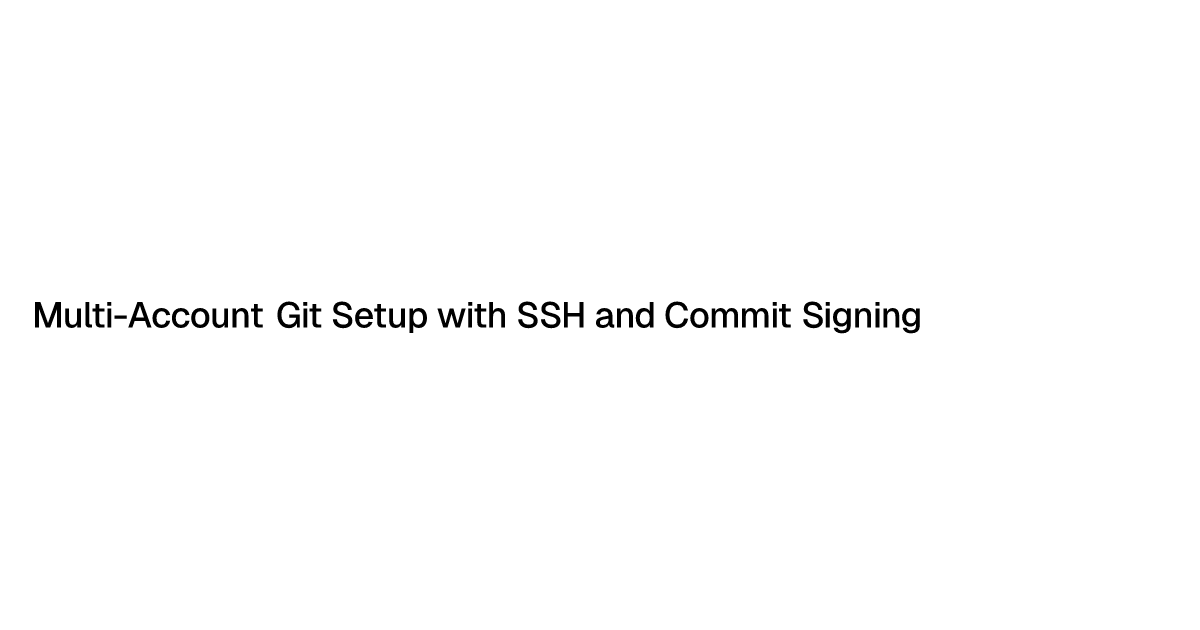
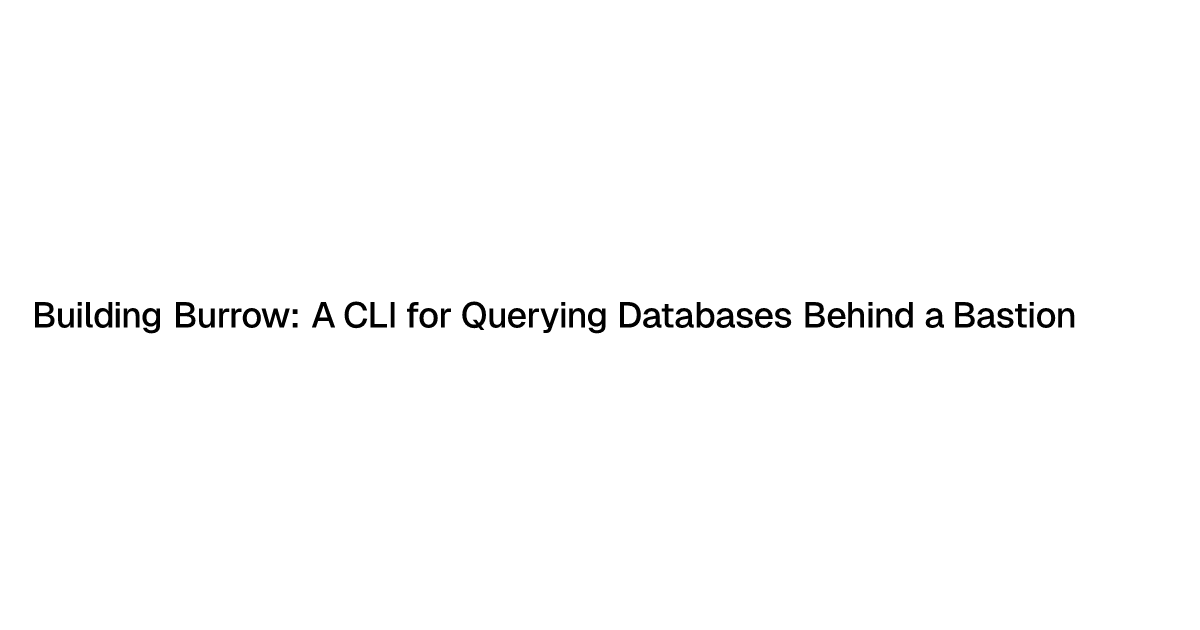
added blog - building burrow cli for querying databases behind bastion

Changed region(s): [[0.0308, 0.4825, 0.8942, 0.5429]]

diff --git a/app/components/mdx.tsx b/app/components/mdx.tsx
@@ -11,6 +11,8 @@ import plaintext from "highlight.js/lib/languages/plaintext";
 import csharp from "highlight.js/lib/languages/csharp";
 import typescript from "highlight.js/lib/languages/typescript";
 import http from "highlight.js/lib/languages/http";
+import python from "highlight.js/lib/languages/python";
+import toml from "highlight.js/lib/languages/ini"; // toml uses ini highlighter
 
 
 import "highlight.js/styles/github-dark.css";
@@ -22,6 +24,8 @@ hljs.registerLanguage("plaintext", plaintext);
 hljs.registerLanguage("csharp", csharp);
 hljs.registerLanguage("typescript", typescript);
 hljs.registerLanguage("http", http);
+hljs.registerLanguage("python", python);
+hljs.registerLanguage("toml", toml);
 
 function Table({ data }) {
   let headers = data.headers.map((header, index) => (
